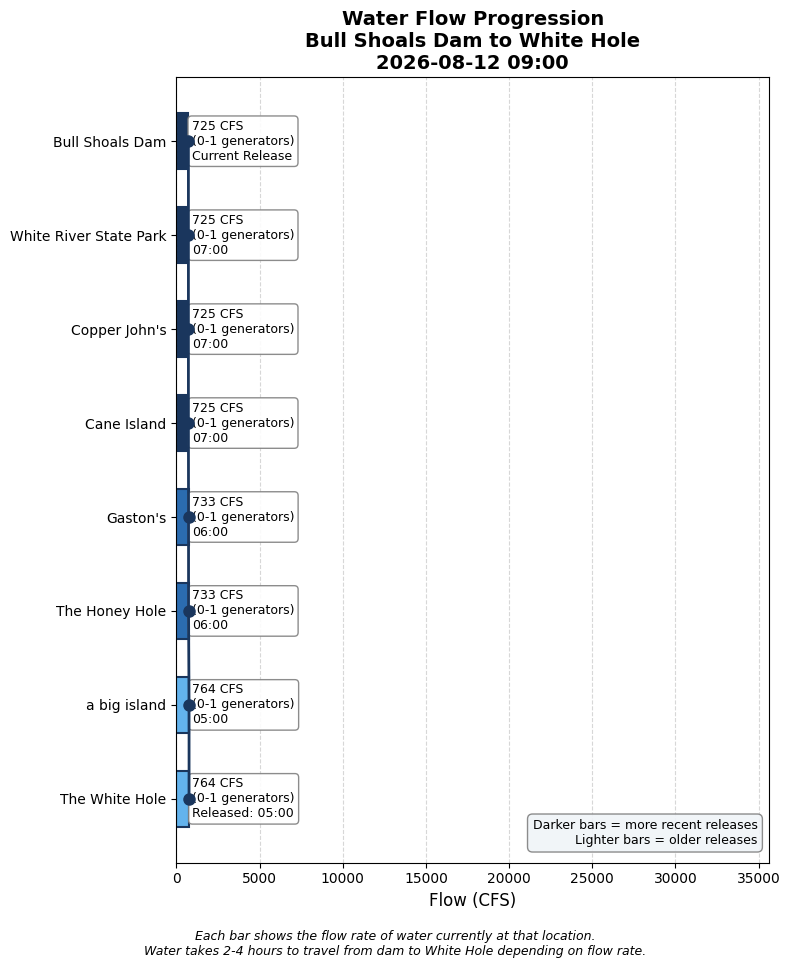
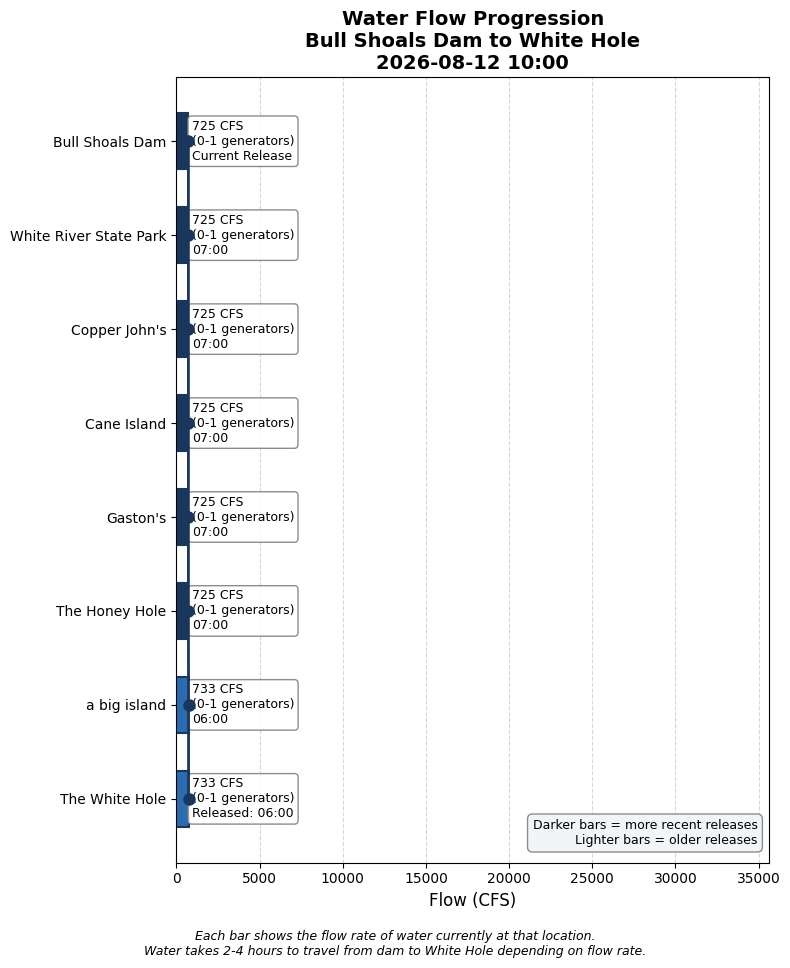
Update water conditions 2026-08-12 10:00

Changed region(s): [[0.2127, 0.4959, 0.2734, 0.8678], [0.638, 0.062, 0.6684, 0.093]]

diff --git a/white_hole_conditions.html b/white_hole_conditions.html
@@ -3,7 +3,7 @@
 <head>
     <meta charset="UTF-8">
     <meta name="viewport" content="width=device-width, initial-scale=1.0">
-    <title>White Hole Conditions - 2026-08-12 09:00</title>
+    <title>White Hole Conditions - 2026-08-12 10:00</title>
     <style>
         body {
             font-family: -apple-system, BlinkMacSystemFont, 'Segoe UI', Roboto, sans-serif;
@@ -148,7 +148,7 @@
 </head>
 <body>
     <h1>White Hole Current Conditions</h1>
-    <p class="subtitle">Wednesday, August 12, 2026 at 09:00 AM</p>
+    <p class="subtitle">Wednesday, August 12, 2026 at 10:00 AM</p>
 
     <!-- HEADLINE BANNER -->
     <div class="headline-banner">
@@ -160,7 +160,7 @@
     <!-- CURRENT CONDITIONS -->
     <div class="current-conditions">
         <h3>Current Conditions at White Hole</h3>
-        <div class="flow-display">764 CFS</div>
+        <div class="flow-display">733 CFS</div>
         <div class="generator-display">Equivalent to 0-1 generators</div>
         <div class="condition-pills">
             <span class="pill wading">Excellent Wading</span>
@@ -189,6 +189,14 @@
                 <tr><td colspan="3" style="padding: 8px 10px; font-size: 0.8em; font-weight: bold; color: #6b46c1; text-transform: uppercase; letter-spacing: 0.05em; background-color: #f3e8ff;">Scheduled (SWPA forecast)</td></tr>
                 
                     <tr style="background-color: #faf5ff; border-left: 4px solid #e53e3e;">
+                        <td style="padding: 10px; font-weight: bold;">1 PM</td>
+                        <td style="padding: 10px;">14,226 CFS<br><small style="color: #666;">(4-5 generators: 13976 generation + 250 min flow)</small></td>
+                        <td style="padding: 10px;">~3:22 PM
+                            <span style="display: inline-block; margin-left: 6px; padding: 2px 8px; border-radius: 12px; font-size: 0.8em; background-color: #fee2e2; color: #991b1b;">No Wading</span>
+                        </td>
+                    </tr>
+                
+                    <tr style="background-color: #faf5ff; border-left: 4px solid #e53e3e;">
                         <td style="padding: 10px; font-weight: bold;">12 PM</td>
                         <td style="padding: 10px;">7,475 CFS<br><small style="color: #666;">(2-3 generators: 7225 generation + 250 min flow)</small></td>
                         <td style="padding: 10px;">~2:52 PM
@@ -212,14 +220,6 @@
                         </td>
                     </tr>
                 
-                    <tr style="background-color: #faf5ff; ">
-                        <td style="padding: 10px; font-weight: bold;">9 AM</td>
-                        <td style="padding: 10px;">723 CFS<br><small style="color: #666;">(0-1 generators: 473 generation + 250 min flow)</small></td>
-                        <td style="padding: 10px;">~12:44 PM
-                            <span style="display: inline-block; margin-left: 6px; padding: 2px 8px; border-radius: 12px; font-size: 0.8em; background-color: #d1fae5; color: #065f46;">Excellent Wading</span>
-                        </td>
-                    </tr>
-                
             
                     
                 <tr><td colspan="3" style="padding: 8px 10px; font-size: 0.8em; font-weight: bold; color: #2b6cb0; text-transform: uppercase; letter-spacing: 0.05em; background-color: #ebf8ff;">Actual (dam readings)</td></tr>
@@ -227,18 +227,12 @@
                     <tr style="background-color: #ebf8ff;">
                         <td style="padding: 10px; font-weight: bold;">7:00 AM</td>
                         <td style="padding: 10px;">725 CFS<br><small style="color: #666;">(0-1 generators)</small></td>
-                        <td style="padding: 10px;"><span style="color: #2b6cb0;">→ Arrives ~10:44 AM (in 103 min)</span></td>
-                    </tr>
-                
-                    <tr style="background-color: #ebf8ff;">
-                        <td style="padding: 10px; font-weight: bold;">6:00 AM</td>
-                        <td style="padding: 10px;">733 CFS<br><small style="color: #666;">(0-1 generators)</small></td>
-                        <td style="padding: 10px;"><span style="color: #2b6cb0;">→ Arrives ~9:44 AM (in 43 min)</span></td>
+                        <td style="padding: 10px;"><span style="color: #2b6cb0;">→ Arrives ~10:44 AM (in 43 min)</span></td>
                     </tr>
                 
                     <tr style="background-color: #e6fffa;">
-                        <td style="padding: 10px; font-weight: bold;">5:00 AM</td>
-                        <td style="padding: 10px;">764 CFS<br><small style="color: #666;">(0-1 generators)</small></td>
+                        <td style="padding: 10px; font-weight: bold;">6:00 AM</td>
+                        <td style="padding: 10px;">733 CFS<br><small style="color: #666;">(0-1 generators)</small></td>
                         <td style="padding: 10px;"><span style="color: #319795; font-weight: bold;">← AT WHITE HOLE NOW</span></td>
                     </tr>
                 
@@ -276,7 +270,7 @@
             <ul>
                 <li>Latest dam reading: 725 CFS at 2026-08-12 07:00</li>
                 <li>Travel time to White Hole: 3.7 hours at current flow</li>
-                <li>White Hole conditions based on dam reading from: 2026-08-12 05:00</li>
+                <li>White Hole conditions based on dam reading from: 2026-08-12 06:00</li>
             </ul>
         </div>
     </details>
@@ -354,13 +348,6 @@
                     <td style="padding: 8px; text-align: right;">3.7</td>
                 </tr>
                 
-                <tr style="border-bottom: 1px solid #eee;">
-                    <td style="padding: 8px;">2026-08-11 22:00</td>
-                    <td style="padding: 8px; text-align: right;">749</td>
-                    <td style="padding: 8px; text-align: right;">0.2</td>
-                    <td style="padding: 8px; text-align: right;">3.7</td>
-                </tr>
-                
                     </tbody>
                 </table>
             </div>
@@ -368,7 +355,7 @@
         
 
     <div class="timestamp">
-        Data retrieved and processed on 2026-08-12 09:00:09
+        Data retrieved and processed on 2026-08-12 10:00:09
     </div>
 </body>
 </html>
